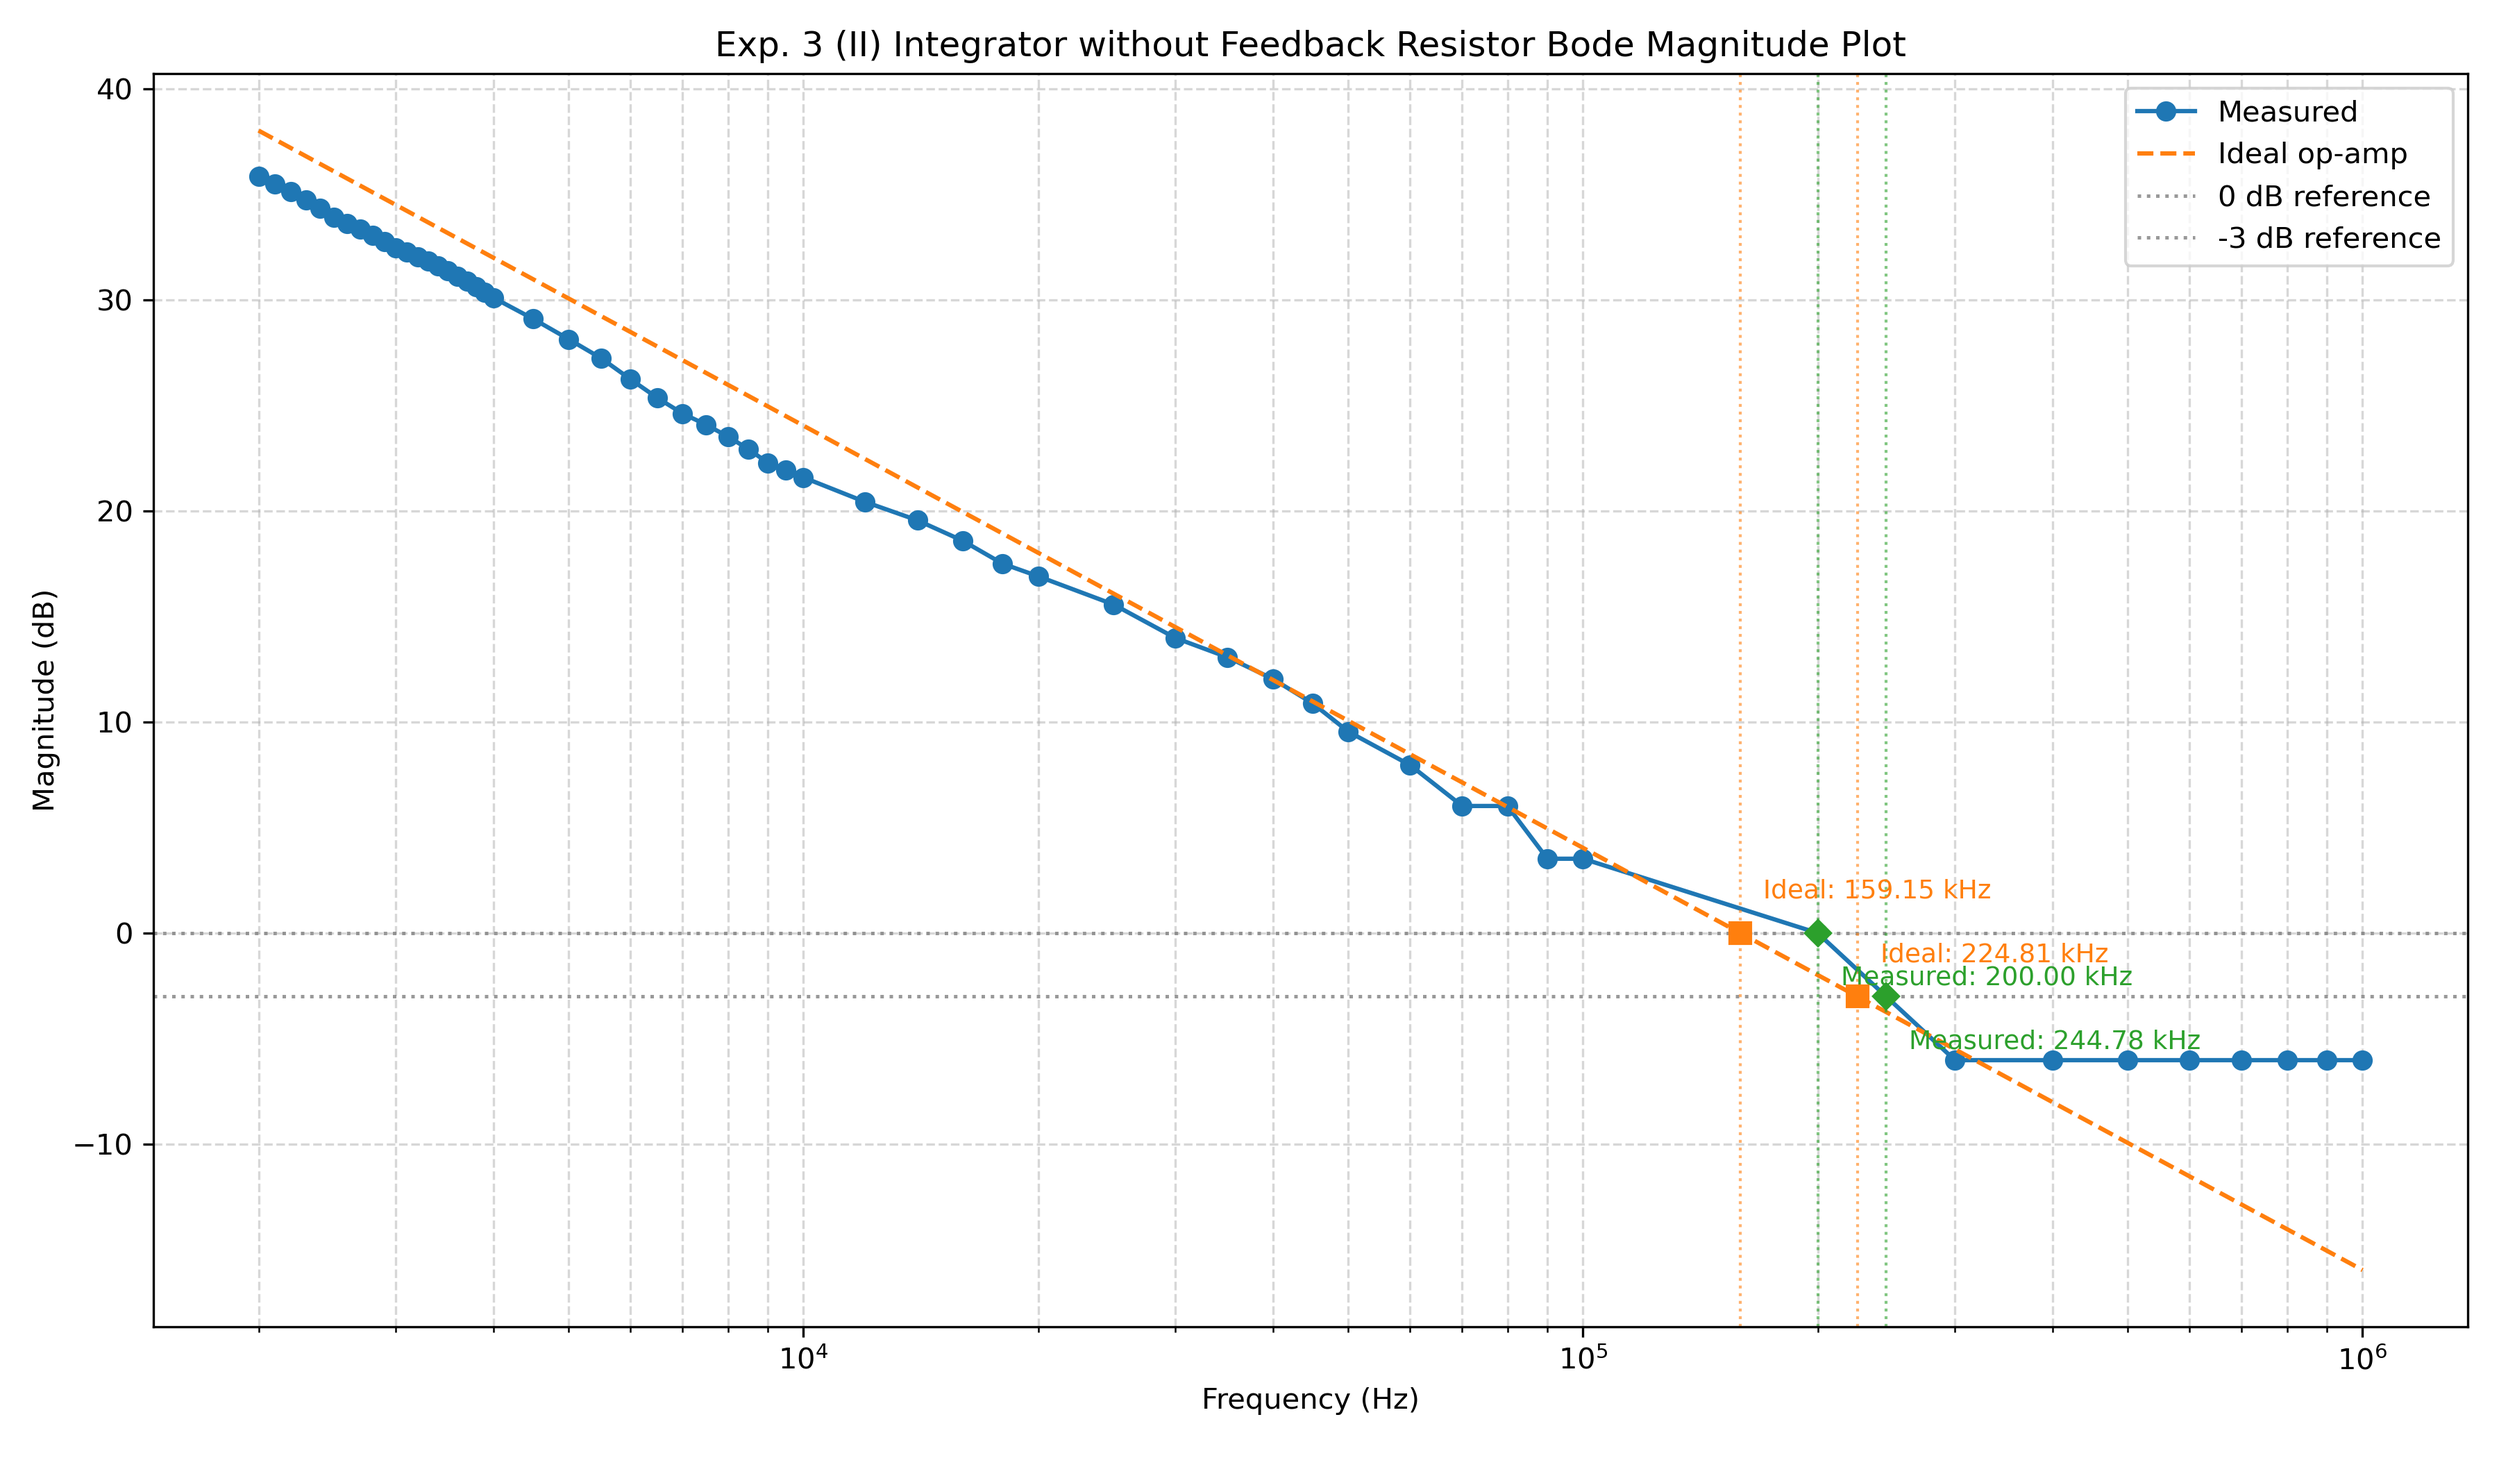
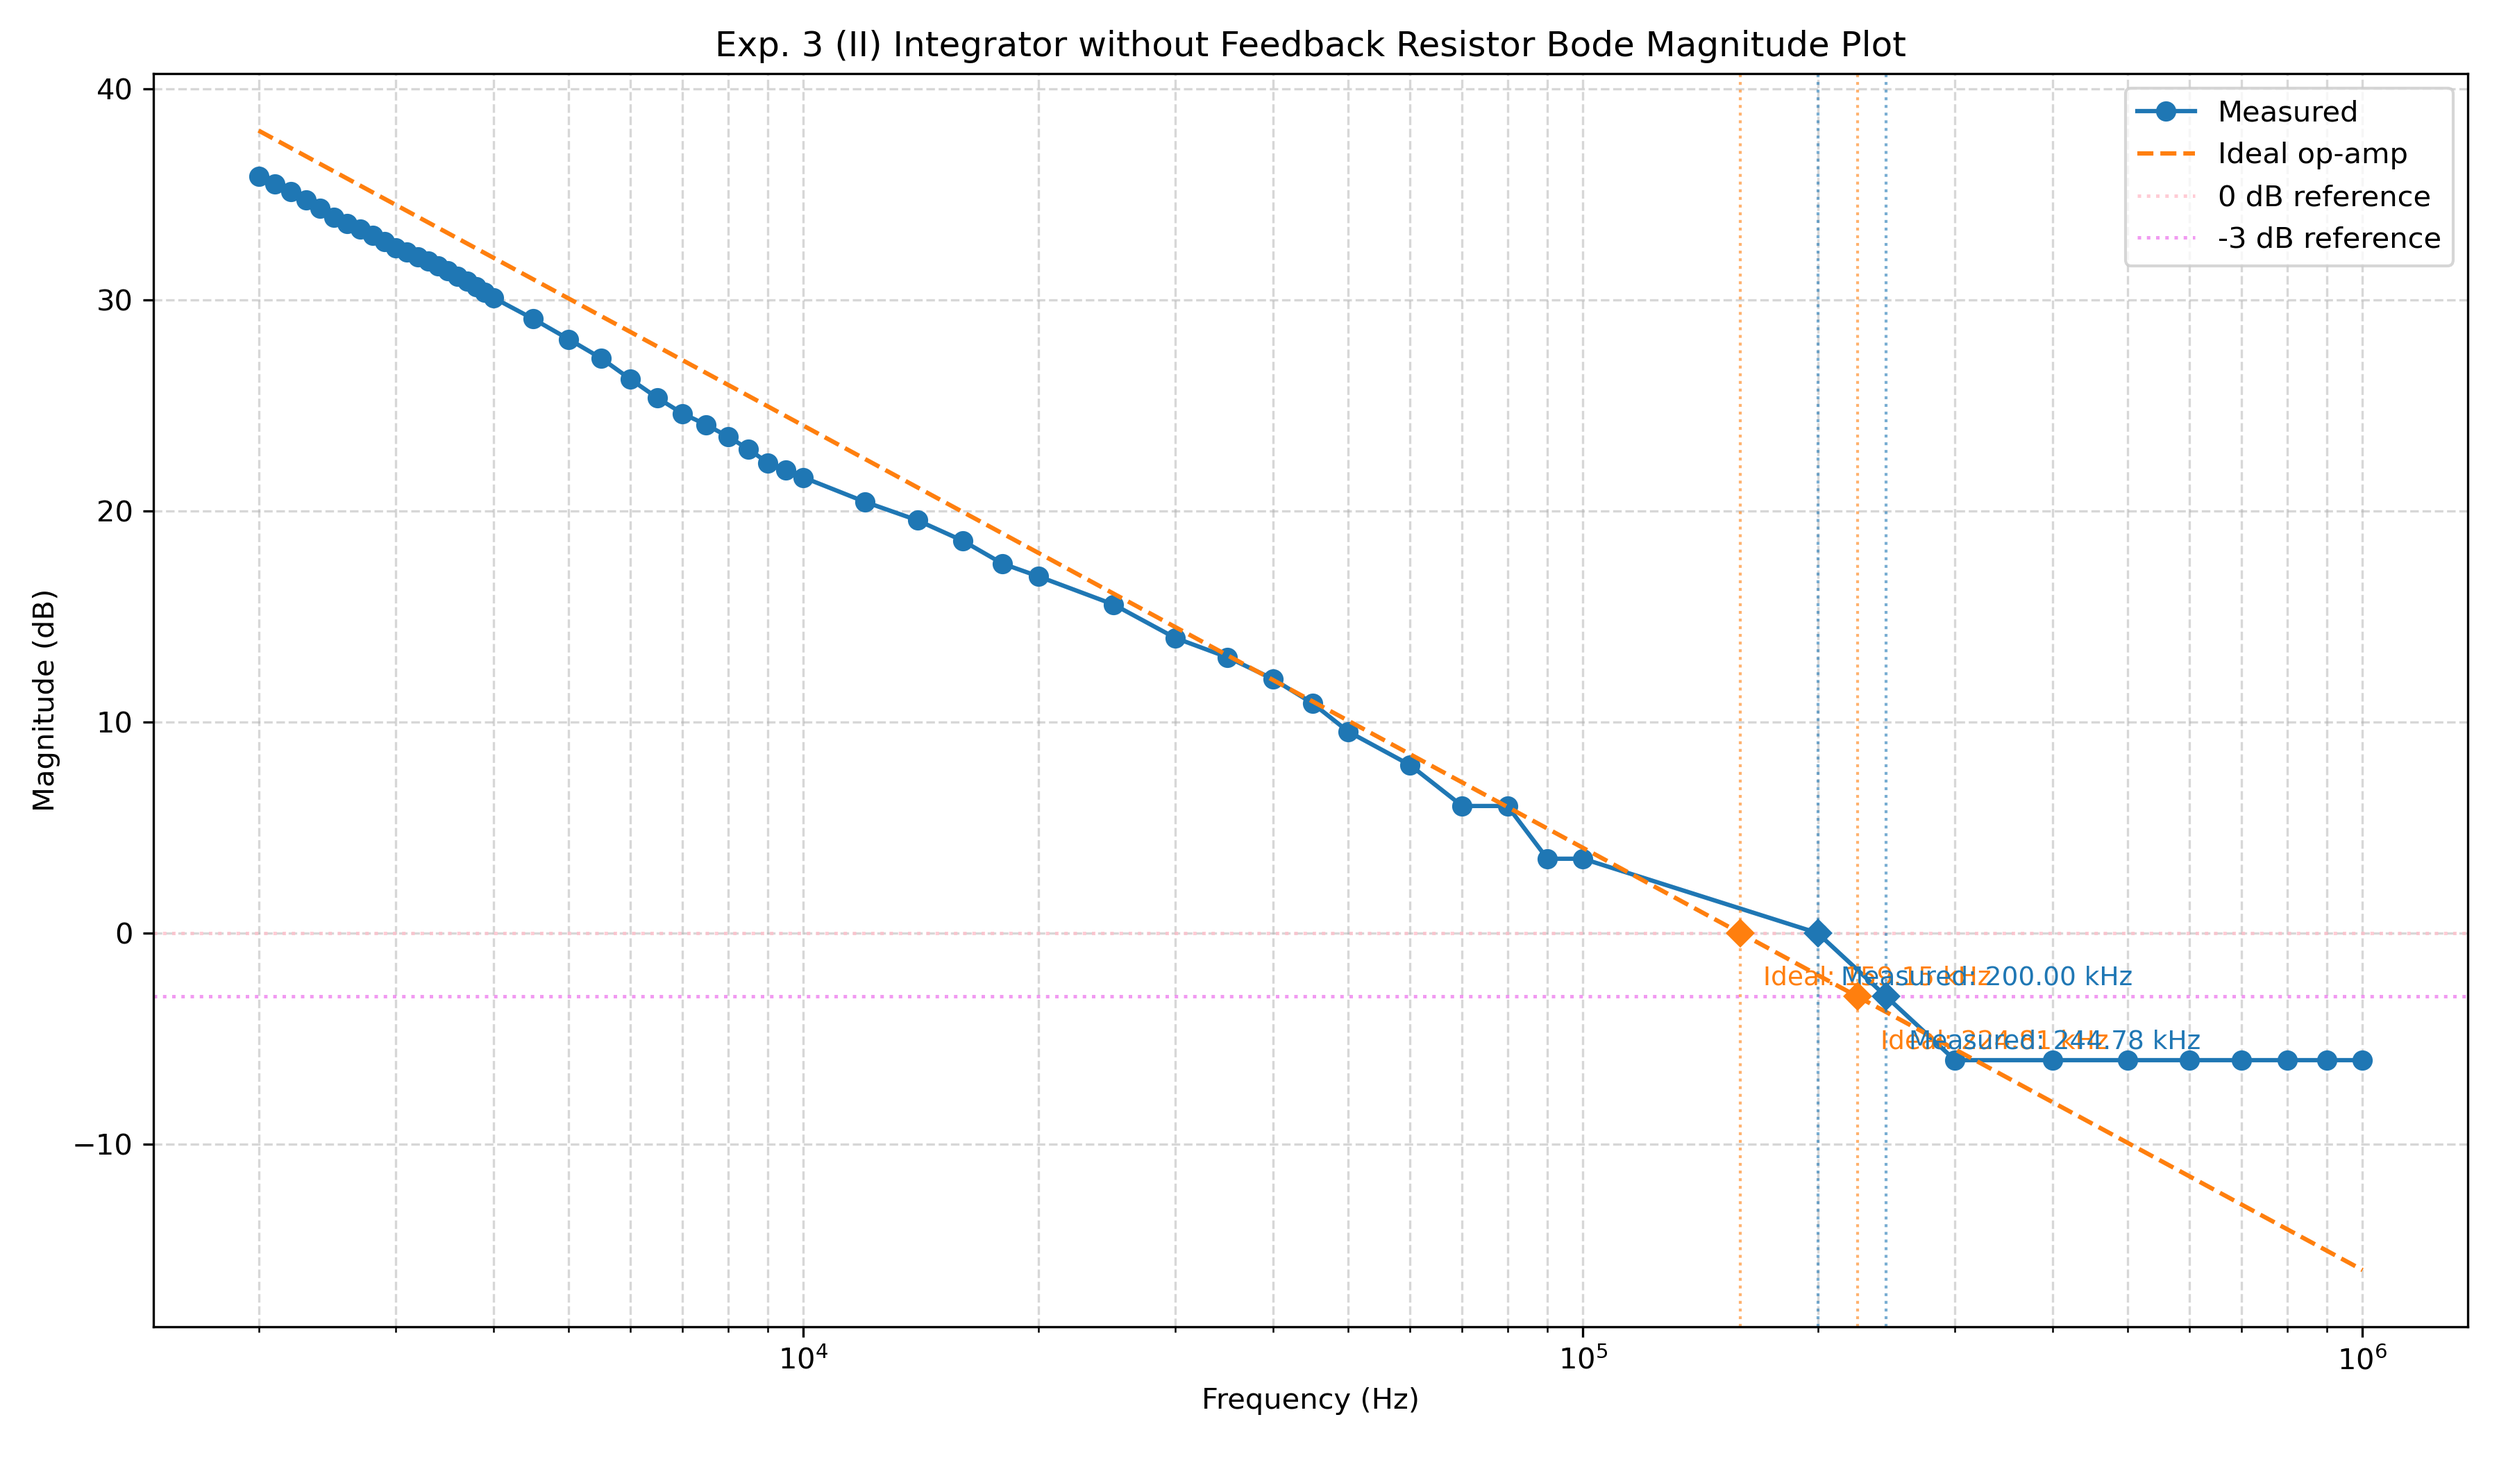
2026-11-08T10:14:13+00:00

Changed region(s): [[0.7156, 0.5881, 0.84, 0.7429]]

diff --git a/2/post-lab/bode_plot.py b/2/post-lab/bode_plot.py
@@ -110,7 +110,7 @@ def process(C, freq, vout_pp, name, title, plotname, tablename):
     ax.semilogx(freq, ideal_db, "--", label="Ideal op-amp")
     reference_levels = [0, -3]
     reference_colors = ["pink", "violet"]
-    for level, color in reference_levels, reference_colors:
+    for level, color in zip(reference_levels, reference_colors):
         ax.axhline(
             level,
             color=color,
@@ -132,8 +132,8 @@ def process(C, freq, vout_pp, name, title, plotname, tablename):
             find_crossings(freq_dense, ideal_dense_db, level),
             find_crossings(freq, measured_db, level),
         ]
-        for crossing, name, color in crossings, crossing_names, crossing_colors:
-            for i, fc in enumerate(crossings):
+        for crossing, name, color in zip(crossings, crossing_names, crossing_colors):
+            for i, fc in enumerate(crossing):
                 ax.plot(
                     fc,
                     level,
